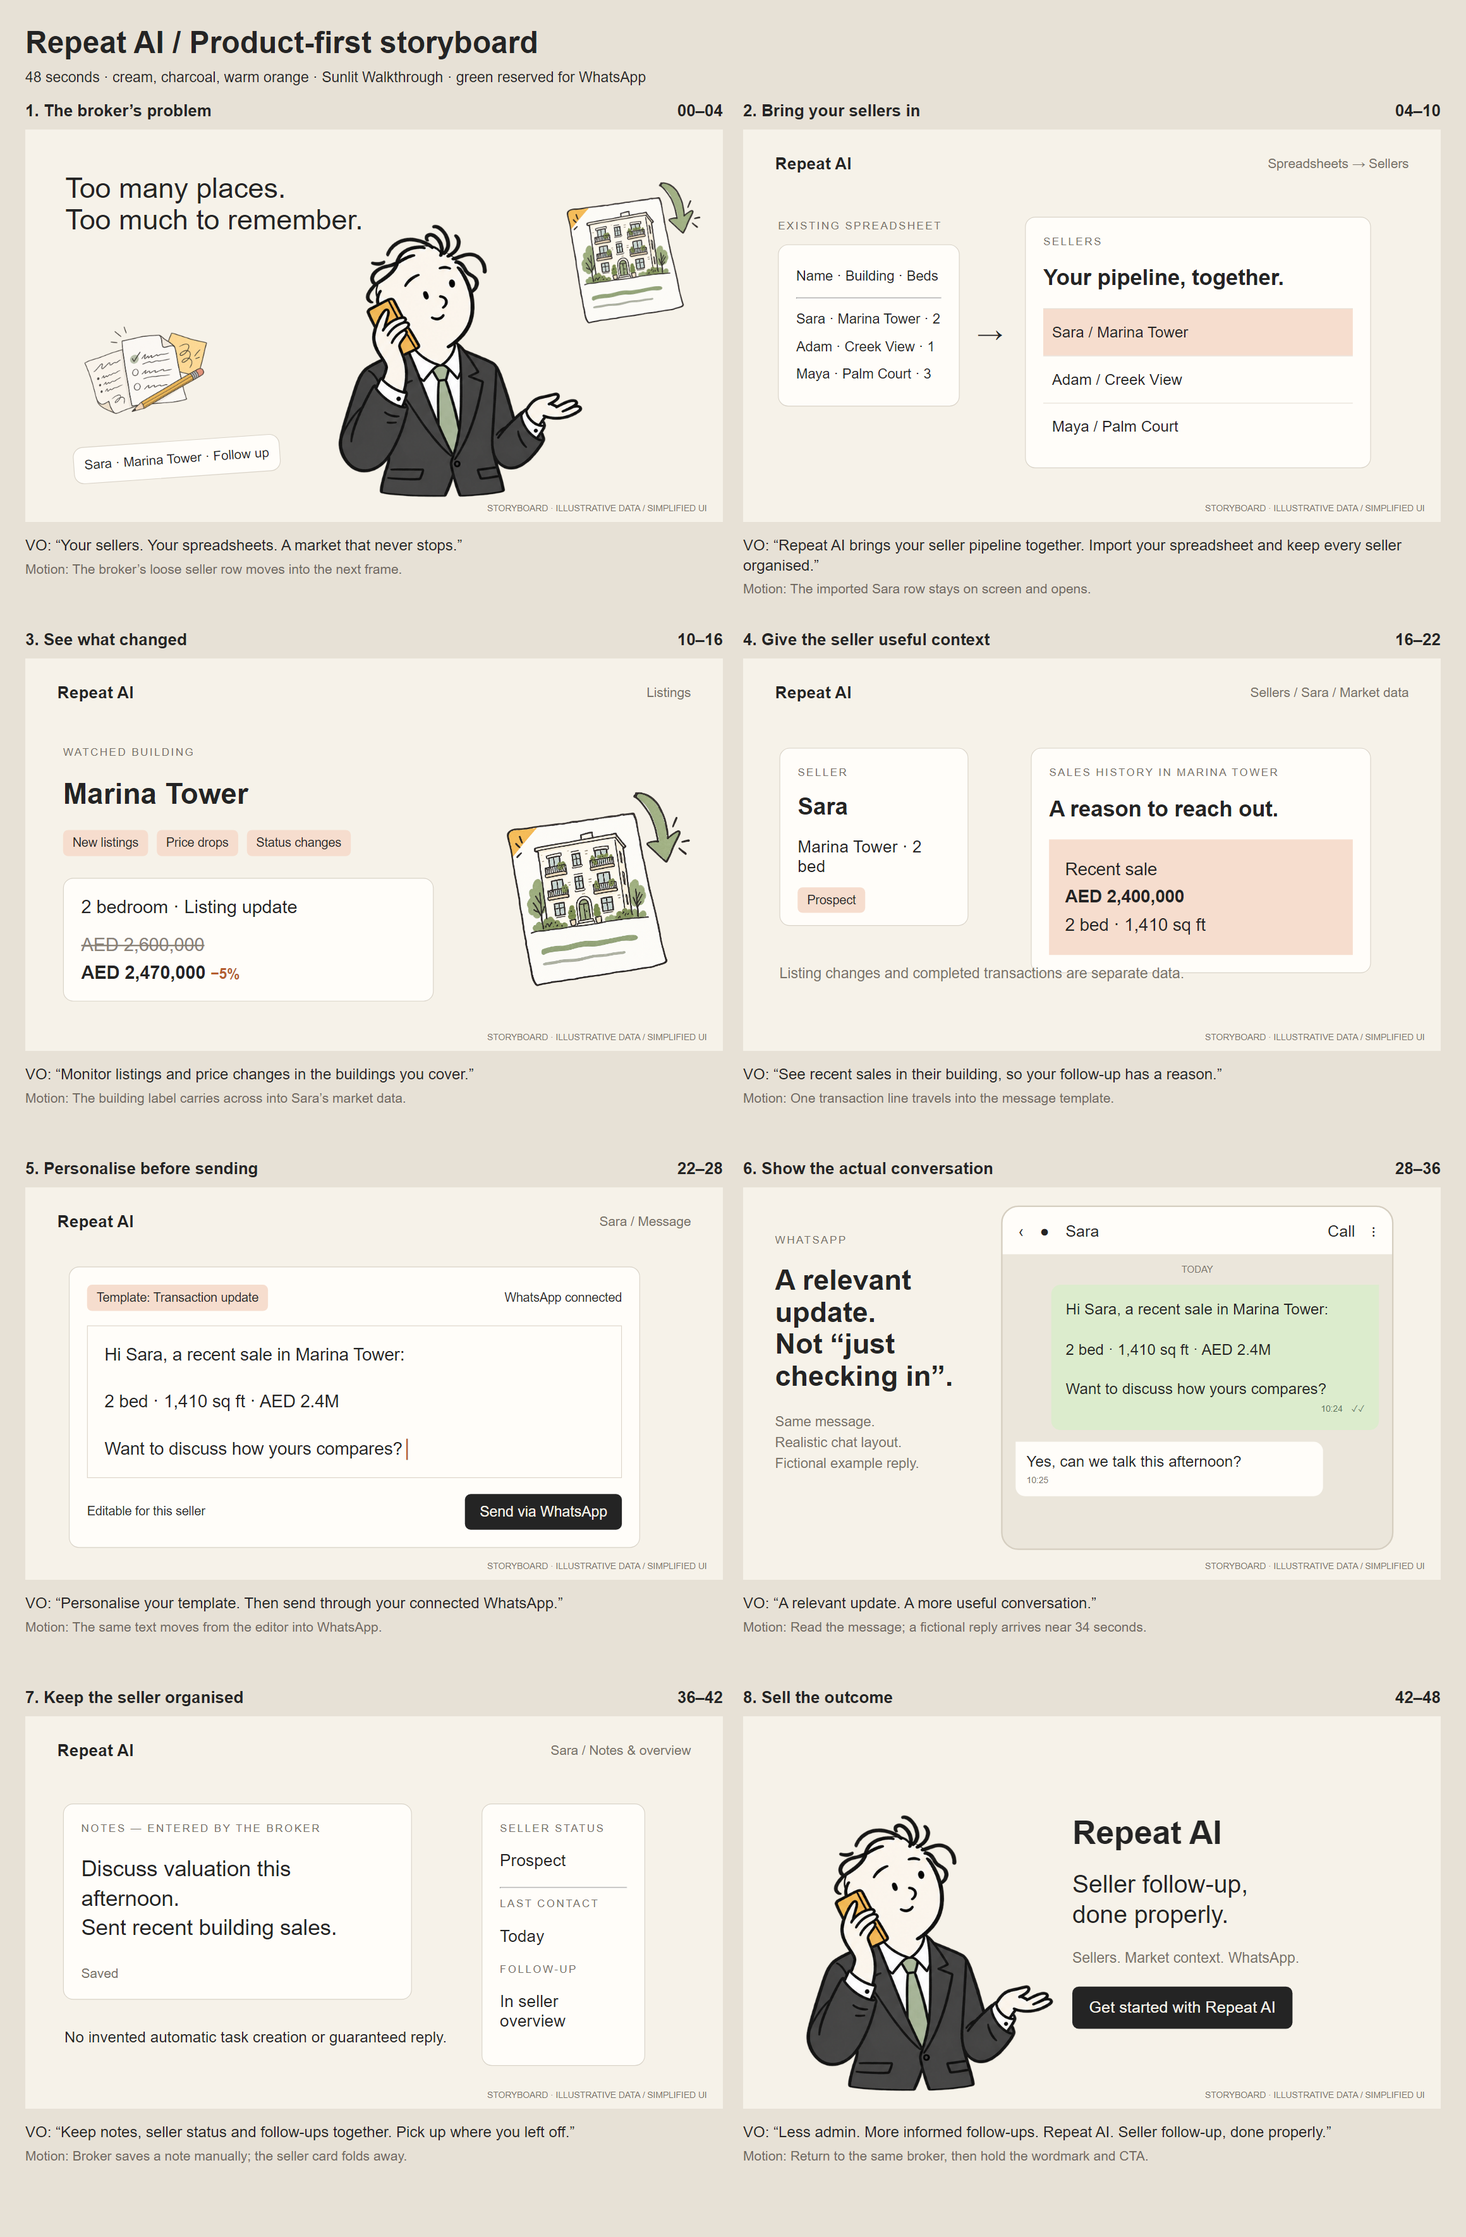
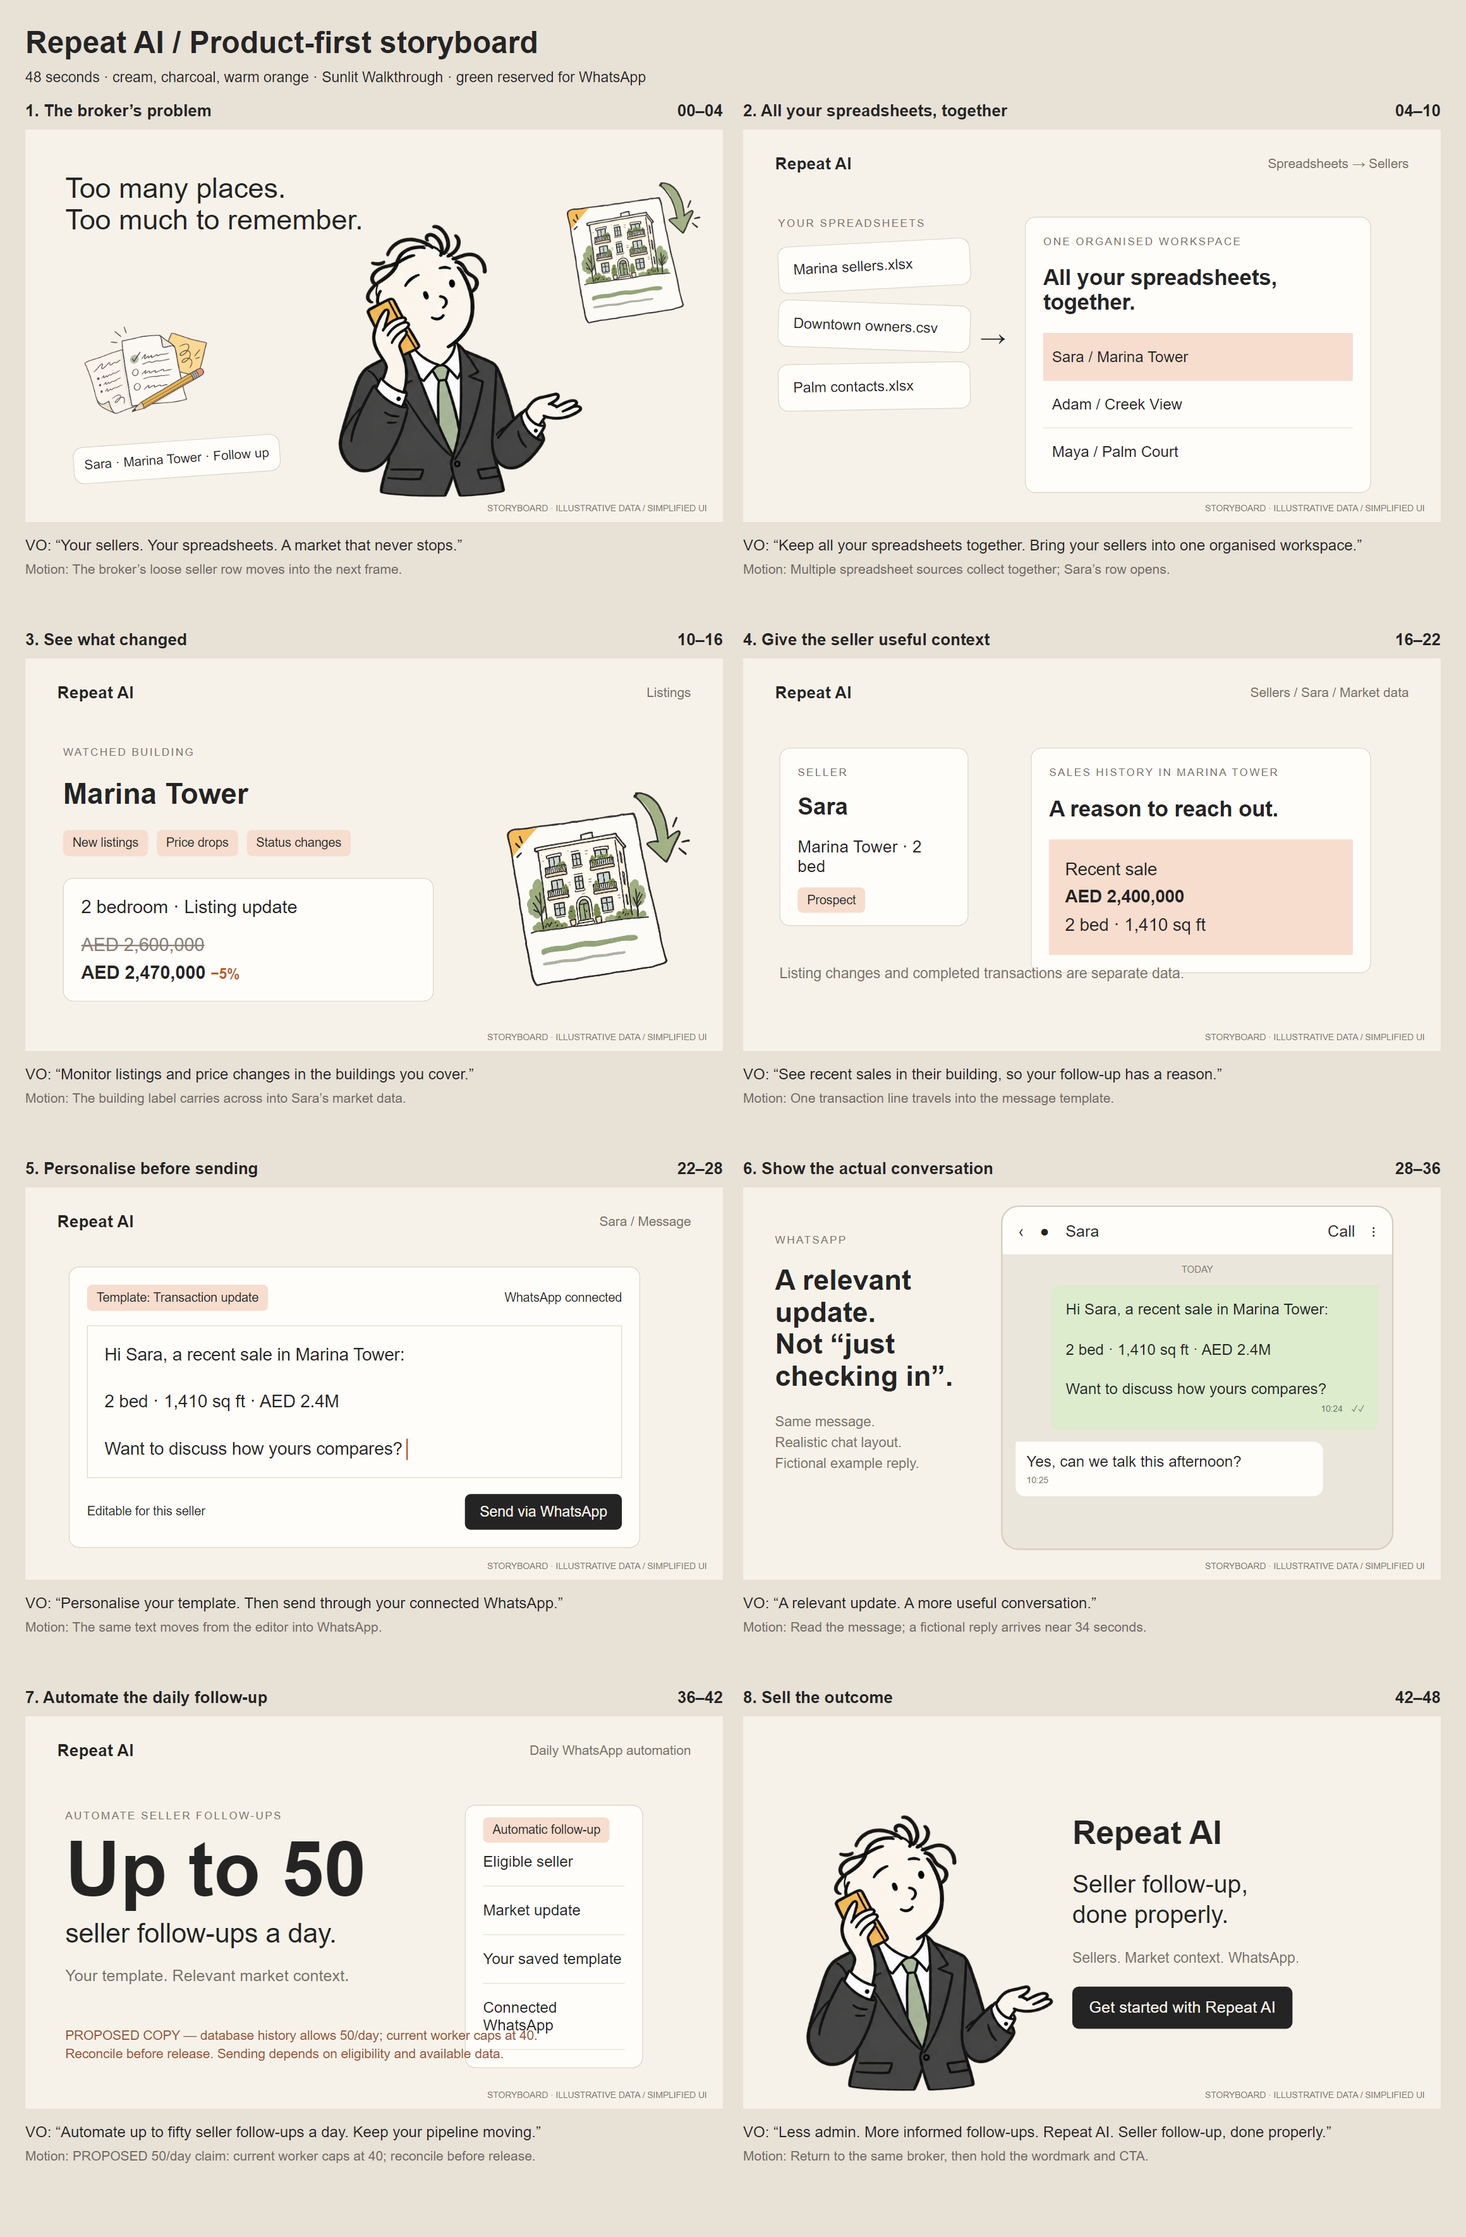
Emphasize spreadsheet organisation and proposed automation benefit

diff --git a/video/src/RepeatAIStoryboard.tsx b/video/src/RepeatAIStoryboard.tsx
@@ -5,12 +5,12 @@ import {Broker} from './RepeatAIIllustratedOpening';
 const cream='#f6f2e9', ink='#242424', orange='#ef966b';
 export const story = [
   ['00–04','The broker’s problem','Your sellers. Your spreadsheets. A market that never stops.','The broker’s loose seller row moves into the next frame.'],
-  ['04–10','Bring your sellers in','Repeat AI brings your seller pipeline together. Import your spreadsheet and keep every seller organised.','The imported Sara row stays on screen and opens.'],
+  ['04–10','All your spreadsheets, together','Keep all your spreadsheets together. Bring your sellers into one organised workspace.','Multiple spreadsheet sources collect together; Sara’s row opens.'],
   ['10–16','See what changed','Monitor listings and price changes in the buildings you cover.','The building label carries across into Sara’s market data.'],
   ['16–22','Give the seller useful context','See recent sales in their building, so your follow-up has a reason.','One transaction line travels into the message template.'],
   ['22–28','Personalise before sending','Personalise your template. Then send through your connected WhatsApp.','The same text moves from the editor into WhatsApp.'],
   ['28–36','Show the actual conversation','A relevant update. A more useful conversation.','Read the message; a fictional reply arrives near 34 seconds.'],
-  ['36–42','Keep the seller organised','Keep notes, seller status and follow-ups together. Pick up where you left off.','Broker saves a note manually; the seller card folds away.'],
+  ['36–42','Automate the daily follow-up','Automate up to fifty seller follow-ups a day. Keep your pipeline moving.','PROPOSED 50/day claim: current worker caps at 40; reconcile before release.'],
   ['42–48','Sell the outcome','Less admin. More informed follow-ups. Repeat AI. Seller follow-up, done properly.','Return to the same broker, then hold the wordmark and CTA.'],
 ];
 const art=(name:string)=>staticFile(`video/repeat-ai-v4/${name}.png`);
@@ -22,12 +22,12 @@ const message=<>Hi Sara, a recent sale in Marina Tower:<br/><br/>2 bed · 1,410 
 export const StoryFrame:React.FC<{index:number}>=({index})=><AbsoluteFill style={{background:cream,color:ink,fontFamily:'Arial, sans-serif',overflow:'hidden'}}>
   <div style={{position:'absolute',bottom:12,right:22,fontSize:12,color:'#777168'}}>STORYBOARD · ILLUSTRATIVE DATA / SIMPLIFIED UI</div>
   {index===0 && <><div style={{position:'absolute',left:55,top:60,fontSize:39,lineHeight:1.1}}>Too many places.<br/>Too much to remember.</div><div style={{position:'absolute',left:360,top:110,width:400,height:400}}><Broker frame={24}/></div><Img src={art('notes')} style={{position:'absolute',left:50,top:235,width:230}}/><Img src={art('property')} style={{position:'absolute',right:20,top:50,width:215}}/><div style={{...box,position:'absolute',left:66,top:428,padding:14,fontSize:18,transform:'rotate(-4deg)'}}>Sara · Marina Tower · Follow up</div></>}
-  {index===1 && <><Header title="Spreadsheets → Sellers"/><div style={{position:'absolute',left:48,top:123,width:250}}><div style={label}>Existing spreadsheet</div><div style={{...box,marginTop:18,fontSize:19,lineHeight:2}}>Name · Building · Beds<hr/>Sara · Marina Tower · 2<br/>Adam · Creek View · 1<br/>Maya · Palm Court · 3</div></div><div style={{position:'absolute',left:322,top:259,fontSize:36}}>→</div><div style={{...box,position:'absolute',left:388,top:120,width:476}}><div style={label}>Sellers</div><h2 style={{fontSize:30}}>Your pipeline, together.</h2>{['Sara  /  Marina Tower','Adam  /  Creek View','Maya  /  Palm Court'].map((s,i)=><div key={s} style={{padding:'20px 12px',borderTop:'1px solid #e5dfd6',background:i===0?'#f6ddce':undefined,fontSize:21}}>{s}</div>)}</div></>}
+  {index===1 && <><Header title="Spreadsheets → Sellers"/><div style={{position:'absolute',left:48,top:120,width:265}}><div style={label}>Your spreadsheets</div>{['Marina sellers.xlsx','Downtown owners.csv','Palm contacts.xlsx'].map((name,i)=><div key={name} style={{...box,marginTop:18,padding:20,fontSize:20,transform:`rotate(${[ -3,2,-1][i]}deg)`}}>{name}</div>)}</div><div style={{position:'absolute',left:326,top:264,fontSize:36}}>→</div><div style={{...box,position:'absolute',left:388,top:120,width:476}}><div style={label}>One organised workspace</div><h2 style={{fontSize:30}}>All your spreadsheets, together.</h2>{['Sara  /  Marina Tower','Adam  /  Creek View','Maya  /  Palm Court'].map((s,i)=><div key={s} style={{padding:'20px 12px',borderTop:'1px solid #e5dfd6',background:i===0?'#f6ddce':undefined,fontSize:21}}>{s}</div>)}</div></>}
   {index===2 && <><Header title="Listings"/><div style={{position:'absolute',left:52,top:120}}><div style={label}>Watched building</div><h1 style={{fontSize:40}}>Marina Tower</h1><div style={{display:'flex',gap:12}}><Pill>New listings</Pill><Pill>Price drops</Pill><Pill>Status changes</Pill></div><div style={{...box,width:510,marginTop:30,fontSize:25}}>2 bedroom · Listing update<div style={{marginTop:24,color:'#898176',textDecoration:'line-through'}}>AED 2,600,000</div><div style={{marginTop:9,fontWeight:700}}>AED 2,470,000 <span style={{color:'#b45d30',fontSize:20}}>−5%</span></div></div></div><Img src={art('property')} style={{position:'absolute',right:30,top:153,width:295}}/></>}
   {index===3 && <><Header title="Sellers / Sara / Market data"/><div style={{...box,position:'absolute',left:50,top:123,width:260}}><div style={label}>Seller</div><h1>Sara</h1><p style={{fontSize:23}}>Marina Tower · 2 bed</p><Pill>Prospect</Pill></div><div style={{...box,position:'absolute',left:396,top:123,width:468}}><div style={label}>Sales history in Marina Tower</div><h2 style={{fontSize:30}}>A reason to reach out.</h2><div style={{background:'#f6ddce',padding:22,fontSize:24,lineHeight:1.6}}>Recent sale<br/><strong>AED 2,400,000</strong><br/>2 bed · 1,410 sq ft</div></div><div style={{position:'absolute',left:50,top:422,fontSize:20,color:'#777168'}}>Listing changes and completed transactions are separate data.</div></>}
   {index===4 && <><Header title="Sara / Message"/><div style={{...box,position:'absolute',left:60,top:109,width:786}}><div style={{display:'flex',justifyContent:'space-between',alignItems:'center'}}><Pill>Template: Transaction update</Pill><span style={{fontSize:17}}>WhatsApp connected</span></div><div style={{border:'1px solid #ddd5c9',padding:23,marginTop:20,fontSize:24,lineHeight:1.35}}>{message}<span style={{color:'#b45d30'}}>│</span></div><div style={{display:'flex',justifyContent:'space-between',marginTop:22,alignItems:'center'}}><span style={{fontSize:17}}>Editable for this seller</span><span style={{background:ink,color:cream,padding:'13px 20px',borderRadius:8,fontSize:20}}>Send via WhatsApp</span></div></div></>}
   {index===5 && <><div style={{position:'absolute',left:44,top:63,width:260}}><div style={label}>WhatsApp</div><h1 style={{fontSize:39,lineHeight:1.13}}>A relevant update.<br/>Not “just checking in”.</h1><p style={{fontSize:19,color:'#777168',lineHeight:1.5}}>Same message.<br/>Realistic chat layout.<br/>Fictional example reply.</p></div><div style={{position:'absolute',left:355,top:25,width:540,height:474,border:'2px solid #d5cec0',borderRadius:24,overflow:'hidden',background:'#ebe6db'}}><div style={{background:'#fffdf9',padding:'18px 22px',fontSize:22}}>‹　●　Sara <span style={{float:'right'}}>Call　⋮</span></div><div style={{textAlign:'center',fontSize:13,color:'#777168',marginTop:13}}>TODAY</div><div style={{background:'#dceccd',margin:'14px 18px 0 67px',padding:20,borderRadius:'13px 0 13px 13px',fontSize:21,lineHeight:1.3}}>{message}<div style={{textAlign:'right',fontSize:12,marginTop:8,color:'#60755a'}}>10:24　✓✓</div></div><div style={{background:'#fffdf9',margin:'16px 95px 0 18px',padding:15,borderRadius:'0 13px 13px 13px',fontSize:21}}>Yes, can we talk this afternoon?<div style={{fontSize:12,marginTop:7,color:'#777168'}}>10:25</div></div></div></>}
-  {index===6 && <><Header title="Sara / Notes & overview"/><div style={{...box,position:'absolute',left:52,top:120,width:480}}><div style={label}>Notes — entered by the broker</div><div style={{fontSize:30,lineHeight:1.35,marginTop:28}}>Discuss valuation this afternoon.<br/>Sent recent building sales.</div><div style={{marginTop:32,color:'#777168',fontSize:18}}>Saved</div></div><div style={{...box,position:'absolute',left:628,top:120,width:225,fontSize:23}}><div style={label}>Seller status</div><p>Prospect</p><hr/><div style={label}>Last contact</div><p>Today</p><div style={label}>Follow-up</div><p>In seller overview</p></div><div style={{position:'absolute',left:54,top:430,fontSize:21}}>No invented automatic task creation or guaranteed reply.</div></>}
+  {index===6 && <><Header title="Daily WhatsApp automation"/><div style={{position:'absolute',left:55,top:128,width:480}}><div style={label}>Automate seller follow-ups</div><div style={{fontSize:105,fontWeight:700,marginTop:13,lineHeight:1}}>Up to 50</div><div style={{fontSize:37,marginTop:15}}>seller follow-ups a day.</div><div style={{fontSize:22,color:'#777168',marginTop:24}}>Your template. Relevant market context.</div></div><div style={{...box,position:'absolute',left:605,top:122,width:245}}><Pill>Automatic follow-up</Pill>{['Eligible seller','Market update','Your saved template','Connected WhatsApp'].map(s=><div key={s} style={{padding:'21px 0',fontSize:21,borderBottom:'1px solid #e5dfd6'}}>{s}</div>)}</div><div style={{position:'absolute',left:55,top:427,right:50,fontSize:18,color:'#9a522f',lineHeight:1.4}}>PROPOSED COPY — database history allows 50/day; current worker caps at 40.<br/>Reconcile before release. Sending depends on eligibility and available data.</div></>}
   {index===7 && <><div style={{position:'absolute',left:15,top:115,width:405,height:405}}><Broker frame={26}/></div><div style={{position:'absolute',left:453,top:135}}><div style={{fontSize:45,fontWeight:700}}>Repeat AI</div><div style={{fontSize:34,lineHeight:1.2,marginTop:24}}>Seller follow-up,<br/>done properly.</div><div style={{marginTop:28,fontSize:20,color:'#777168'}}>Sellers. Market context. WhatsApp.</div><div style={{background:ink,color:cream,padding:'16px 23px',borderRadius:9,marginTop:28,display:'inline-block',fontSize:22}}>Get started with Repeat AI</div></div></>}
 </AbsoluteFill>;
 

diff --git a/video/repeat-ai-storyboard.md b/video/repeat-ai-storyboard.md
@@ -15,12 +15,12 @@ Status: planning deliverable, not a new finished video. Eight rendered keyframes
 | Time | Product point / action | Voiceover | Continuity into next shot |
 | --- | --- | --- | --- |
 | 00–04 | Broker, scattered spreadsheet row, listing and notes. Establish the daily problem immediately. | Your sellers. Your spreadsheets. A market that never stops. | Sara's loose row moves into the import surface; no fade to blank. |
-| 04–10 | Existing spreadsheet becomes the seller pipeline. Keep Sara highlighted. | Repeat AI brings your seller pipeline together. Import your spreadsheet and keep every seller organised. | Preserve Sara and Marina Tower as the visual anchors. |
+| 04–10 | Multiple named spreadsheet sources collect into one organised workspace and seller pipeline. Keep Sara highlighted. | Keep all your spreadsheets together. Bring your sellers into one organised workspace. | Preserve Sara and Marina Tower as the visual anchors. |
 | 10–16 | Show watched-building listings, price drops and status changes. One asking price changes from AED 2.6M to AED 2.47M. | Monitor listings and price changes in the buildings you cover. | Carry the building name into the seller's market-data view. Do not depict a price drop as a completed transaction. |
 | 16–22 | Sara's market-data panel shows a separate recent sale: 2 bed, 1,410 sq ft, AED 2.4M. | See recent sales in their building, so your follow-up has a reason. | The exact transaction line moves into a message template. |
 | 22–28 | Message template populated for Sara; broker edits/reviews the closing and clicks Send via WhatsApp. Connected account is shown. | Personalise your template. Then send through your connected WhatsApp. | The same text becomes the outgoing chat bubble; no retyping the whole message. |
 | 28–36 | WhatsApp close-up. Message already mostly read in previous shot; seller example reply enters near 34s. | A relevant update. A more useful conversation. | Audio narration ends early in this beat to give room for reading. Music continues; never cut to silence. |
-| 36–42 | Broker manually adds a note to Sara's record; show existing status, last contact and follow-up information. | Keep notes, seller status and follow-ups together. Pick up where you left off. | Seller card folds/shrinks away to reveal the original broker. |
+| 36–42 | Automatic WhatsApp follow-up with saved template, eligible seller and relevant market context. Large proposed daily-cap benefit. | PROPOSED, NOT RELEASE-READY: Automate up to fifty seller follow-ups a day. Keep your pipeline moving. | Automation panel folds away to reveal the original broker. |
 | 42–48 | Suited broker; Repeat AI wordmark, benefit and Get started CTA. | Less admin. More informed follow-ups. Repeat AI. Seller follow-up, done properly. | End in a deliberate short CTA hold, music resolved/faded. |
 
 ## Exact WhatsApp text
@@ -50,6 +50,12 @@ Show Sara's header, Today separator, small timestamps and understated delivery t
 - Render narration only after the sequence is established. If a line overruns, shorten copy rather than create dead air elsewhere or unnaturally speed it up.
 
 ## Product evidence and limits
+
+### Daily automation claim — unresolved implementation mismatch
+
+User requested “automate up to 50 seller follow-ups a day.” Included as explicitly proposed storyboard copy, not a verified current capacity. `supabase/migrations/20260723173244_increase_auto_whatsapp_daily_cap_to_50.sql` defines a maximum of 50 per user per Dubai day and schedules a 50-cap request. However, the current `supabase/functions/seller-signal-auto-whatsapp/index.ts` sets `DEFAULT_DAILY_CAP = 40` (line 17) and clamps requested/environment values with `Math.min(DEFAULT_DAILY_CAP, ...)` (line 948). A configured 50 therefore does not override this worker's hard ceiling. No live deployment verification or settings/code change was performed. Before recording final numeric copy or publishing, reconcile this discrepancy. Safe interim copy is “Automate your daily seller follow-ups.”
+
+Spreadsheet organisation is supported by `src/features/seller-signal/components/SpreadsheetsPage.jsx`, which lists named spreadsheet sources. The claim means organising imported sources in Repeat AI, not an unrestricted general-purpose cloud file-storage service.
 
 Inspected current local source, not a live end-to-end messaging test:
 
